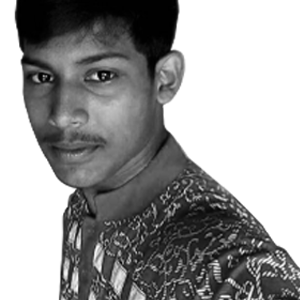
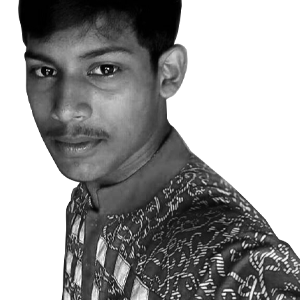
rotate image and add change image black and white to colorful

Changed region(s): [[0.03, 0.0, 1.0, 1.0], [0.39, 0.54, 0.42, 0.57]]

diff --git a/javaScript/main.js b/javaScript/main.js
@@ -23,4 +23,15 @@ bars.addEventListener("click", () => {
 });
 const crnt_yr =  new Date().getFullYear();
 const current_Year = document.querySelector('.current_Year').innerHTML =crnt_yr;
+// image 
+const image_own = document.querySelector('.own_img');
+image_own.addEventListener('mouseenter',()=>{
+    image_own.style.transform = "rotate(360deg)";
+    image_own.style.transition = " linear 3s";
+    image_own.style.zIndex = "0";
+    setTimeout(()=>{
+    image_own.src = "/image/own_img_CF.png";
+    },3500);
+});
+
 

diff --git a/Style/main.css b/Style/main.css
@@ -15,6 +15,7 @@ body {
   justify-content: space-between;
   width: 100%;
   position: fixed;
+  z-index:1;
 }
 .logo {
   font-size: 28px;
